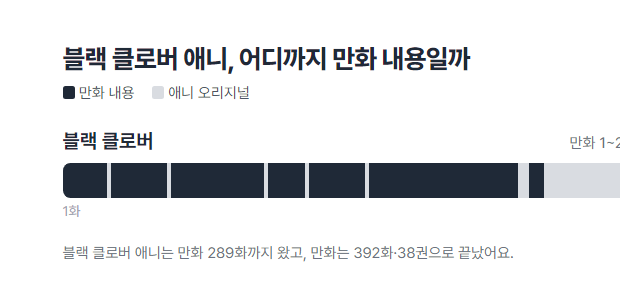
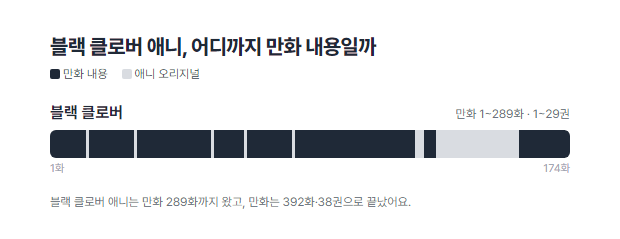
원고 T178: 블랙 클로버 회차정리 환산기 (memorily › 애니)

diff --git a/콘텐츠/블로그_카페/포스팅자동화/원고/T178_블랙클로버환산기/원고.md b/콘텐츠/블로그_카페/포스팅자동화/원고/T178_블랙클로버환산기/원고.md
@@ -1,0 +1,149 @@
+# [원고] T178 · 블랙 클로버 2기는 만화 몇 화부터? 화수 환산기·극장판 보는 순서와 오리지널 회차
+사이트: memorily
+옛 제목: 블랙 클로버 회차정리 애니만화 환산기 명장면 등 모음
+커스텀: 직접 요청
+
+| 항목 | 내용 |
+|---|---|
+| 형식 | 정보 정리 (글보다 표) · 해요체 짧게 · 맨 위 요약 없음 (도구형) |
+| 채널 | 티스토리 memorily |
+| 넣을 카테고리 | memorily › 애니 |
+| 각도 | 화수 환산기 + 1기 170화 · 2기(방영 중) 이어 보기 + 장별 대응 + 오리지널 회차 + 극장판 위치 + 명장면 몇 화 |
+| 환산기 | 본문의 `[환산기: blackclover]` 줄. 환산기데이터.json 을 push 하면 뜬다 (스킨은 다시 붙이지 않는다) |
+| 사진 | 가공이미지 2장(대표·어디까지 만화 내용) + 장면 5장(위키 회차 화면, 620 폭). 표지는 쓰지 않는다 |
+| 참고 조사 | 구글 자동완성 "블랙클로버 몇기까지·몇화까지·2기 방영일·2기 몇화·완결·390화·보는 순서·극장판 순서·마법제의 검 순서·오리지널·명장면" (2026-10-28) |
+
+## 확인한 사실
+
+| 사실 | 출처 | 확인 |
+|---|---|---|
+| TV 1기 170화 (2017-10-03 ~ 2021-03-30). 신작 TV 〈2nd Season〉이 2026-10-03 에 시작해 위키는 171화부터 이어 센다 (174화가 2026-10-24 방영, 매주 늘어남) | blackclover.fandom 회차 문서, 영어 위키백과 | 2026-10-28 |
+| 회차별 원작 화수: 위키 회차 문서의 chapter 칸. 칸이 빈 회차는 오리지널로 봄. Anime Filler List(170화까지)와 대조 — 위키가 55화를 '고집불통 소의 서'라 적어 오리지널로 두고, 3·56화는 위키 화수대로 섞임으로 둠 | 위 위키, Anime Filler List | 2026-10-28 |
+| 1기 170화는 원작 272화까지 (170화 268~272화), 2기 1화(171화)는 270~275화부터 다시 시작해 174화가 285~289화 | 위 위키 | 2026-10-28 |
+| 만화 392화·38권 완결 (2015-02 ~ 2026-05-01, 주간 소년점프 → 점프 GIGA). 권별 첫 화는 위키 권 목록 (1권 1화, 2권 8화, 3권 17화…) | 위 위키, 영어 위키백과 | 2026-10-28 · 한국판 권 구성은 일본판과 같다고 봄 |
+| 극장판 1편 〈마법제의 검〉 2023-06-16 (일본 극장 + 넷플릭스 동시 공개), 오리지널 이야기. 보는 위치는 흔히 '170화 뒤'로 안내됨 | 위 위키, 검색 결과 | 2026-10-28 · 위치는 비공식 |
+
+<!-- 본문 시작 -->
+
+# 블랙 클로버 2기는 만화 몇 화부터? 화수 환산기·극장판 보는 순서와 오리지널 회차
+
+블랙 클로버(블클) 애니 몇 화가 만화 몇 화·몇 권인지, 아래 환산기에 화수를 넣으면 바로 나와요.
+
+## 화수 환산기
+
+[환산기: blackclover]
+
+환산기에는 1기 1화부터 쭉 이어 센 번호(1~174화)를 넣어요. 2기는 171화부터예요. 2기가 방영 중이라 화수는 매주 늘어요.
+
+![블랙 클로버 회차정리](https://raw.githubusercontent.com/kwonjinbeom/jb_office/main/%EC%BD%98%ED%85%90%EC%B8%A0/%EB%B8%94%EB%A1%9C%EA%B7%B8_%EC%B9%B4%ED%8E%98/memorily_%ED%8B%B0%EC%8A%A4%ED%86%A0%EB%A6%AC/%EC%95%A0%EB%8B%88%ED%99%98%EC%82%B0%EA%B8%B0/%EC%82%AC%EC%A7%84/blackclover-cover.png)
+
+## 블랙 클로버 몇 기, 몇 화
+
+애니는 2017년 10월 시작한 1기 170화로 한 번 끝났고, 2026년 10월 3일 2기(공식 표기 2nd Season)가 시작했어요. 위키는 2기도 171화로 이어 세요.
+
+| 기 | 회차 | 이어 세면 | 만화 | 방영 |
+|---|---|---|---|---|
+| 1기 | 170화 | 1~170화 | 1~272화 (1~27권) | 2017년 10월~2021년 3월 |
+| 2기 | 방영 중 (4화까지) | 171화~ | 270~289화까지 (27~29권) | 2026년 10월~ |
+
+2기 1화(171화)는 만화 270화부터 다시 보여 줘서, 1기 마지막 화와 내용이 조금 겹쳐요. 만화는 2026년 5월에 끝났어요.
+
+![블랙 클로버 애니, 어디까지 만화 내용일까](https://raw.githubusercontent.com/kwonjinbeom/jb_office/main/%EC%BD%98%ED%85%90%EC%B8%A0/%EB%B8%94%EB%A1%9C%EA%B7%B8_%EC%B9%B4%ED%8E%98/memorily_%ED%8B%B0%EC%8A%A4%ED%86%A0%EB%A6%AC/%EC%95%A0%EB%8B%88%ED%99%98%EC%82%B0%EA%B8%B0/%EC%82%AC%EC%A7%84/blackclover-chart.png)
+
+## 장별 대응
+
+| 장 | 애니 (이어 센 화) | 만화 |
+|---|---|---|
+| 마법기사단 입단 시험 | 1~13화 | 1~10화 |
+| 던전 탐험 | 14~19화 | 11~21화 |
+| 왕도 습격 | 20~27화 | 22~37화 |
+| 백야의 마안 | 28~39화 | 38~56화 |
+| 해저 신전 | 40~51화 | 57~75화 |
+| 마녀의 숲 | 52~65화 | 76~102화 |
+| 왕족 기사단 선발 | 66~96화 | 102~150화 |
+| 엘프 환생 | 97~157화 | 150~228화 (130~157화는 오리지널) |
+| 하트 왕국 합동전 | 158~167화 | 229~260화 |
+| 스페이드 왕국 습격 | 168~174화 (방영 중) | 261~289화 (만화는 392화까지) |
+
+장 이름은 위키의 아크 구분을 풀어 쓴 것이에요. 96~101화와 107~112화 근처는 애니가 만화 순서를 앞뒤로 오가서 화수 범위를 넓게 잡았어요.
+
+## 애니 다음 만화는
+
+1기만 봤다면 만화 273화(28권)부터 이어 보면 돼요. 2기까지 보고 있다면 지금 방영분(174화)이 만화 289화까지라서 290화(29권)부터예요. 만화는 392화·38권으로 끝났어요.
+
+## 애니 오리지널 회차
+
+| 이어 세면 | 내용 |
+|---|---|
+| 13화 | 애니 오리지널 (마법제는 보았다, 이어서) |
+| 29화 | 백야의 마안 편 회상 |
+| 55화 | 파젤 이야기 (책 '고집불통 소의 서' 바탕) |
+| 66화 | 백야의 마안의 비밀 |
+| 82화 | 푸치 클로버 SP |
+| 123~125화 | 네로 회상과 귀환 |
+| 130~157화 | 만화에서 건너뛴 6개월 수련 기간을 그린 오리지널 |
+
+회차 제목은 위키 영어 제목을 옮긴 것이라 한국 방영 제목과 다를 수 있어요. 2·3·8·9·12·30·56·69·102화는 만화에 애니 장면을 더한 회차예요.
+
+## 자주 묻는 것
+
+| 질문 | 답 |
+|---|---|
+| 총 몇 화예요? | 1기 170화 + 2기 방영 중 (2026년 10월 24일 174화까지) |
+| 몇 기까지 나왔어요? | 2기까지. 2기는 2026년 10월 3일에 시작했어요 |
+| 1기는 만화 몇 화까지예요? | 272화까지 (27권) |
+| 2기는 몇 화부터 시작해요? | 만화 270화부터. 이어 센 171화 |
+| 오리지널은 몇 화나 돼요? | 36화 (13·29·55·66·82·123~125·130~157화) |
+| 만화는 몇 권이에요? | 38권, 392화 완결 |
+| 130~157화 건너뛰어도 돼요? | 네. 만화에 없는 수련 기간 이야기라 158화로 바로 이어져요 |
+
+## 극장판
+
+극장판은 한 편이에요. 애니 오리지널 이야기라 건너뛰어도 본편이 이어져요. 보는 위치는 공식이 아니라 흔히 안내되는 자리예요.
+
+| 극장판 | 개봉 | 보는 위치 |
+|---|---|---|
+| 마법제의 검 | 2023년 6월 16일 (일본 극장·넷플릭스 동시) | 1기 끝(170화) 뒤, 2기 시작 전 |
+
+## 명장면 몇 화
+
+**마도서 수여식, 아스타와 유노** · 1화 · 만화 1화
+
+![아스타와 유노](https://static.wikia.nocookie.net/blackclover/images/a/a1/Episode_1.png/revision/latest/scale-to-width-down/620?cb=20171004143326)
+
+**율리우스 vs 리히트** · 93화 · 만화 144~146화
+
+![율리우스 vs 리히트](https://static.wikia.nocookie.net/blackclover/images/8/86/Episode_93.png/revision/latest/scale-to-width-down/620?cb=20190723155329)
+
+**아스타·유노 vs 리히트** · 100화 · 만화 154~157화
+
+![아스타·유노 vs 리히트](https://static.wikia.nocookie.net/blackclover/images/b/be/Episode_100.png/revision/latest/scale-to-width-down/620?cb=20190911032451)
+
+**인간과 엘프 vs 자그레드, 최후의 일격** · 119화 · 만화 208~211화
+
+![인간과 엘프 vs 자그레드](https://static.wikia.nocookie.net/blackclover/images/4/4a/Episode_119.png/revision/latest/scale-to-width-down/620?cb=20200128170954)
+
+**아스타와 악마, 1기 마지막 화** · 170화 · 만화 268~272화
+
+![아스타와 악마](https://static.wikia.nocookie.net/blackclover/images/7/76/Episode_170.png/revision/latest/scale-to-width-down/620?cb=20210330133811)
+
+그 밖의 장면도 몇 화인지 모았어요.
+
+| 장면 | 애니 | 만화 |
+|---|---|---|
+| 해저 신전 총력전 | 43화 | 60~62화 |
+| 노엘 vs 베토 | 46화 | 67~68화 |
+| 메레오레오나 vs 리야 | 91화 | 136~138화 |
+| 블랙 불스 vs 단테 | 163화 | 244~248화 |
+| 야미 선장 | 166화 | 254~258화 |
+| 2기 1화, 전투 개시 | 171화 | 270~275화 |
+
+출처: 블랙 클로버 위키(blackclover.fandom.com) 회차별 원작 화수, Anime Filler List. 2026년 10월 28일 확인
+사진: ⓒ 타바타 유키 / 슈에이샤 · 테레비 도쿄 · 스튜디오 피에로
+
+<!-- 본문 끝 -->
+
+---
+
+태그: 블랙 클로버, 블랙클로버, 블랙클로버 몇화, 블랙클로버 2기, 블랙클로버 몇기까지, 블랙클로버 만화 몇권, 블랙클로버 극장판 순서, 블랙클로버 오리지널, 블랙클로버 명장면, 블랙클로버 환산기
+소개: 블랙 클로버 애니 1기·2기 회차를 만화 화수로 바꿔 주는 환산기와 장별 대응, 오리지널 회차, 극장판 보는 위치, 명장면 몇 화를 정리했어요.

diff --git a/콘텐츠/블로그_카페/memorily_티스토리/애니총정리/15_블랙클로버.md b/콘텐츠/블로그_카페/memorily_티스토리/애니총정리/15_블랙클로버.md
@@ -1,0 +1,25 @@
+# 블랙 클로버
+
+상태: 원고 완료 (2026-10-28) · 발행 전
+
+| 항목 | 내용 |
+|---|---|
+| 원고 | 포스팅자동화/원고/T178_블랙클로버환산기/원고.md |
+| 환산기 키 | `blackclover` (data/blackclover.json, 완결이라 volEnd 없음, 시리즈 하나에 seasons [1, 171]) |
+| 애니 | 1기 TV 170화 (2017-10-03 ~ 2021-03-30) + 2기 방영 중 (2026-10-03 시작, 위키는 171화부터 이어 셈, 174화까지 확인). 2기가 늘면 data 의 eps 에 더한다 |
+| 오리지널 | 36화 (13·29·55·66·82·123~125·130~157), 원작+애니 9화 (2·3·8·9·12·30·56·69·102) |
+| 만화 | 392화·38권 완결 (2015-02 ~ 2026-05-01). 1기는 272화(27권)까지, 2기 1화는 270화부터 다시 시작 |
+| 극장판 | 1편 〈마법제의 검〉 2023-06-16, 위치는 흔히 '170화 뒤' (비공식) |
+
+## 데이터에서 알게 된 것
+
+- 회차별 원작 화수는 위키 회차 문서의 chapter 칸. 칸이 빈 회차는 오리지널. Anime Filler List(170화까지)와 대조: 55화는 위키가 '고집불통 소의 서'라 적어 오리지널, 3·56화는 위키 화수대로 섞임 → 위키를 따름.
+- 위키 회차 문서의 순서가 만화 순서와 어긋난 곳: 89~91화, 96~106화 (엘프 편 앞부분이 168~172화를 먼저 보여 줌), 165화. 범위를 넓게 잡았다.
+- 권별 첫 화는 위키 권 목록 38권.
+- 확인 못 한 것: 한국판 권 구성(일본판과 같다고 봄), 한국 방영·서비스 제목과 인물 한국어 이름(위키 영어 제목·일부 직역), 극장판 보는 위치(공식 안내 없음, 검색 결과 하나), 2기가 한국 서비스에서 몇 기로 불리는지.
+- 장면 사진 5장은 620 폭 주소가 브라우저에서 열리는 것을 확인했다 (스크립트 요청은 403).
+
+## 남은 일
+
+- [ ] 2기 방영이 늘면 data/blackclover.json 의 eps 에 회차 더하고 build.py
+- [ ] 발행 뒤 글 주소 적기
